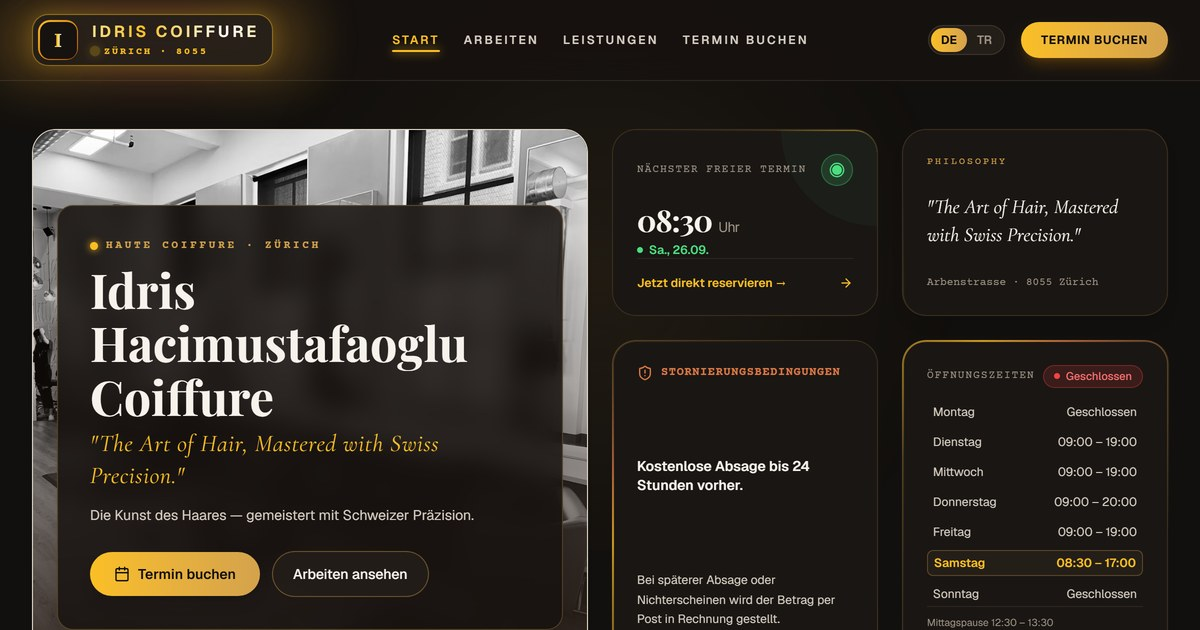
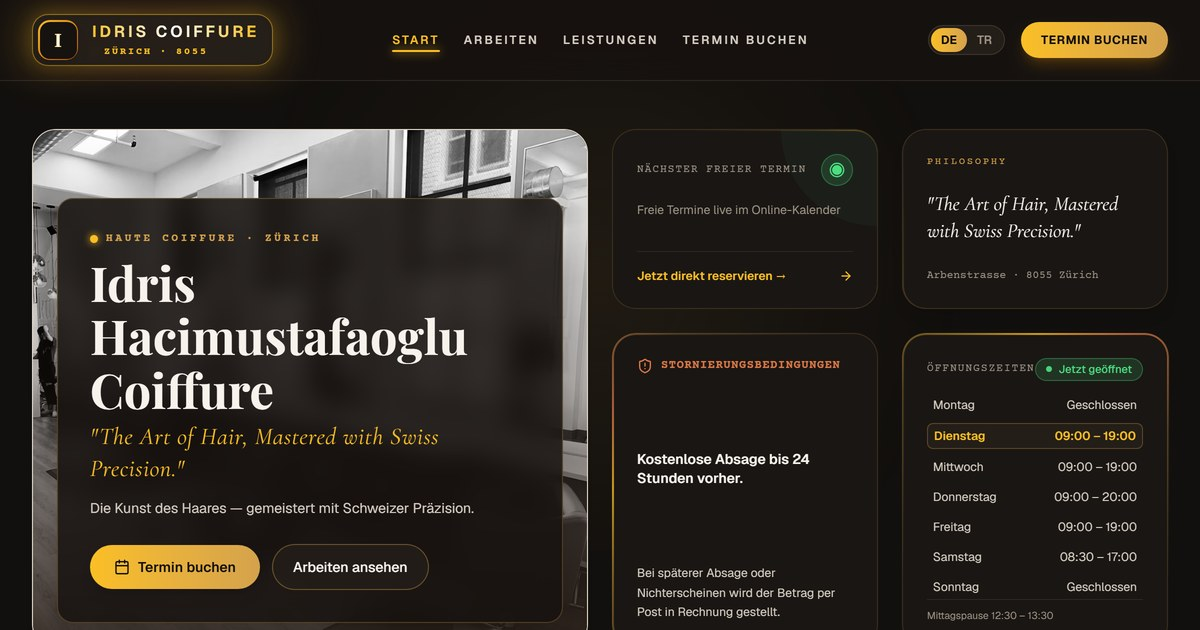
Rename Revair Studio to Idris Coiffure, timeless link preview image
- Salon name in page title, link previews, schema.org data, emails,
  gallery quotes and service names is now Idris Coiffure
- Preview image no longer shows a dated slot or a "closed" badge
- Next-slot card shows a positive hint instead of "no free slot" when
  the backend is unavailable (static Vercel deploy)

diff --git a/server.ts b/server.ts
@@ -60,7 +60,7 @@ const SMTP_HOST = process.env.SMTP_HOST;
 const SMTP_PORT = process.env.SMTP_PORT ? parseInt(process.env.SMTP_PORT, 10) : 587;
 const SMTP_USER = process.env.SMTP_USER;
 const SMTP_PASS = process.env.SMTP_PASS;
-const SMTP_FROM = process.env.SMTP_FROM || `"${SALON_CONFIG.name}" <termin@revair-studio.ch>`;
+const SMTP_FROM = process.env.SMTP_FROM || `"${SALON_CONFIG.name}" <termin@idris-coiffure.ch>`;
 const CALENDAR_ID = process.env.CALENDAR_ID;
 const GOOGLE_SERVICE_ACCOUNT_JSON = process.env.GOOGLE_SERVICE_ACCOUNT_JSON;
 
@@ -247,7 +247,7 @@ function generateIcs(event: CalendarEventItem): string {
   return [
     'BEGIN:VCALENDAR',
     'VERSION:2.0',
-    'PRODID:-//Revair Studio Zürich//Hair Appointments//DE',
+    'PRODID:-//Idris Coiffure Zürich//Hair Appointments//DE',
     'CALSCALE:GREGORIAN',
     'METHOD:REQUEST',
     'BEGIN:VEVENT',
@@ -266,11 +266,11 @@ function generateIcs(event: CalendarEventItem): string {
 
 // Mail Sending Helpers
 async function sendVerificationCodeEmail(email: string, code: string, serviceName: string) {
-  const subject = `Ihr Bestätigungscode für Revair Studio`;
+  const subject = `Ihr Bestätigungscode für Idris Coiffure`;
   // Section 4.3: Kod e-postanın konu satırına yazılmaz, sadece içeriğinde bulunur!
   const textBody = `Guten Tag,
 
-Ihr 6-stelliger Bestätigungscode für Ihren Termin (${serviceName}) bei Revair Studio lautet:
+Ihr 6-stelliger Bestätigungscode für Ihren Termin (${serviceName}) bei Idris Coiffure lautet:
 
 ${code}
 
@@ -289,7 +289,7 @@ ${SALON_CONFIG.contact.phone}`;
   <div style="max-width: 520px; margin: 0 auto; background-color: #fbf8f2; border: 1px solid #e4dacb; border-radius: 16px; padding: 32px; box-shadow: 0 4px 12px rgba(46,35,28,0.05);">
     <div style="text-align: center; margin-bottom: 24px;">
       <div style="display: inline-block; width: 44px; height: 44px; border-radius: 50%; background-color: #2e231c; color: #f1e6c0; font-family: Georgia, serif; font-size: 22px; line-height: 44px; font-weight: bold;">R</div>
-      <h2 style="font-family: 'Source Serif 4', Georgia, serif; color: #2e231c; font-size: 24px; margin: 12px 0 4px;">Revair Studio Zürich</h2>
+      <h2 style="font-family: 'Source Serif 4', Georgia, serif; color: #2e231c; font-size: 24px; margin: 12px 0 4px;">Idris Coiffure Zürich</h2>
       <p style="color: #736c62; font-size: 13px; margin: 0; font-family: 'Courier Prime', Courier, monospace; letter-spacing: 0.05em;">HAIR RITUALS &amp; SPA</p>
     </div>
     <div style="border-top: 1px dashed #d3c6b3; margin: 16px 0 24px;"></div>
@@ -338,7 +338,7 @@ async function sendConfirmationEmail(event: CalendarEventItem) {
     timeZone: SALON_CONFIG.timeZone,
   });
 
-  const subject = `Ihr Termin ist bestätigt — Revair Studio Zürich`;
+  const subject = `Ihr Termin ist bestätigt — Idris Coiffure Zürich`;
   const textBody = `Guten Tag ${event.customerName},
 
 Ihr Termin bei ${SALON_CONFIG.name} ist verbindlich bestätigt:
@@ -424,7 +424,7 @@ async function sendReminderEmail(event: CalendarEventItem) {
     timeZone: SALON_CONFIG.timeZone,
   });
 
-  const subject = `Erinnerung an Ihren Termin morgen — Revair Studio Zürich`;
+  const subject = `Erinnerung an Ihren Termin morgen — Idris Coiffure Zürich`;
   const textBody = `Guten Tag ${event.customerName},
 
 wir freuen uns darauf, Sie morgen um ${timeFormatted} Uhr bei uns im Salon begrüssen zu dürfen!
@@ -435,7 +435,7 @@ Ort: ${SALON_CONFIG.address.street}, ${SALON_CONFIG.address.postalCode} ${SALON_
 Falls etwas dazwischenkommt: ${cancelUrl}
 
 Mit herzlichen Grüssen,
-Ihr Revair Team`;
+Ihr Idris Coiffure Team`;
 
   if (mailTransporter) {
     await mailTransporter.sendMail({
@@ -450,7 +450,7 @@ Ihr Revair Team`;
 }
 
 async function sendCancellationEmail(event: CalendarEventItem) {
-  const subject = `Bestätigung: Termin storniert — Revair Studio Zürich`;
+  const subject = `Bestätigung: Termin storniert — Idris Coiffure Zürich`;
   const textBody = `Guten Tag ${event.customerName},
 
 Ihr Termin für ${event.serviceName} wurde erfolgreich aus unserem Kalender gelöscht.
@@ -1209,7 +1209,7 @@ async function startServer() {
 
   if (!process.env.VERCEL) {
     app.listen(PORT, '0.0.0.0', () => {
-      console.log(`[Revair Studio Server] running on http://0.0.0.0:${PORT}`);
+      console.log(`[Idris Coiffure Server] running on http://0.0.0.0:${PORT}`);
     });
   }
 }

diff --git a/index.html b/index.html
@@ -3,26 +3,26 @@
   <head>
     <meta charset="UTF-8" />
     <meta name="viewport" content="width=device-width, initial-scale=1.0" />
-    <title>Revair Studio Zürich — Coiffure & Hair Spa | Idris Hacimustafaoglu</title>
+    <title>Idris Coiffure Zürich — Haute Coiffure & Hair Spa | Idris Hacimustafaoglu</title>
     <meta name="description" content="Exklusiver Coiffure-Salon in Zürich. Meisterhafte Haarkunst, Balayage, Precision Cuts & persönliche Betreuung. Jetzt online Termin buchen." />
 
     <!-- Open Graph / Facebook / WhatsApp Preview Card -->
     <meta property="og:type" content="website" />
-    <meta property="og:site_name" content="Revair Studio Zürich" />
-    <meta property="og:title" content="Revair Studio Zürich — Haute Coiffure & Hair Spa" />
+    <meta property="og:site_name" content="Idris Coiffure Zürich" />
+    <meta property="og:title" content="Idris Coiffure Zürich — Haute Coiffure & Hair Spa" />
     <meta property="og:description" content="Exklusiver Coiffure-Salon in Zürich (Arbenstrasse 352). Online-Terminbuchung, Arbeiten & Galerie, transparente Leistungen mit Google Calendar Synchronisation." />
     <meta property="og:image" content="https://ido-khaki.vercel.app/og-image.jpg" />
     <meta property="og:image:secure_url" content="https://ido-khaki.vercel.app/og-image.jpg" />
     <meta property="og:image:type" content="image/jpeg" />
     <meta property="og:image:width" content="1200" />
     <meta property="og:image:height" content="630" />
-    <meta property="og:image:alt" content="Revair Studio Zürich Haute Coiffure Salon" />
+    <meta property="og:image:alt" content="Idris Coiffure Zürich Haute Coiffure Salon" />
     <meta property="og:locale" content="de_CH" />
     <meta property="og:locale:alternate" content="tr_TR" />
 
     <!-- Twitter Card -->
     <meta name="twitter:card" content="summary_large_image" />
-    <meta name="twitter:title" content="Revair Studio Zürich — Haute Coiffure & Hair Spa" />
+    <meta name="twitter:title" content="Idris Coiffure Zürich — Haute Coiffure & Hair Spa" />
     <meta name="twitter:description" content="Exklusiver Coiffure-Salon in Zürich. Online-Terminbuchung & Meisterhafte Haarkunst." />
     <meta name="twitter:image" content="https://ido-khaki.vercel.app/og-image.jpg" />
 
@@ -36,7 +36,7 @@
     {
       "@context": "https://schema.org",
       "@type": "HairSalon",
-      "name": "Revair Studio Zürich",
+      "name": "Idris Coiffure Zürich",
       "image": "https://ido-khaki.vercel.app/og-image.jpg",
       "description": "Exklusiver Coiffure-Salon in Zürich. Meisterhafte Haarkunst, Balayage, Precision Cuts & persönliche Betreuung.",
       "address": {

diff --git a/src/i18n/translations.ts b/src/i18n/translations.ts
@@ -16,7 +16,7 @@ export const translations = {
     nextSlot: {
       title: 'Nächster freier Termin',
       loading: 'Wird geladen...',
-      none: 'Kein freier Termin in Sicht',
+      none: 'Freie Termine live im Online-Kalender',
       bookNow: 'Jetzt direkt reservieren →',
     },
     quote1: {
@@ -164,7 +164,7 @@ export const translations = {
     nextSlot: {
       title: 'En Yakın Boş Randevu',
       loading: 'Yükleniyor...',
-      none: 'Yakında boş randevu bulunmuyor',
+      none: 'Boş saatler canlı online takvimde',
       bookNow: 'Hemen Bu Saati Seç →',
     },
     quote1: {

diff --git a/salon.config.ts b/salon.config.ts
@@ -173,8 +173,8 @@ export const SALON_CONFIG = {
     {
       id: "revair-oil-spa",
       category: "pflege",
-      nameDe: "Revair Botanical Oil Spa",
-      nameTr: "Revair Botanik Yağ Terapisi",
+      nameDe: "Idris Botanical Oil Spa",
+      nameTr: "Idris Botanik Yağ Terapisi",
       durationMinutes: 45,
       priceChf: 70,
       descriptionDe: "Wärmendes Kopfhaut-Ritual mit kaltgepresstem Kräuteröl, Akupressur & Dampfkompresse.",

diff --git a/galeri.config.ts b/galeri.config.ts
@@ -168,8 +168,8 @@ export const GALERI_CONFIG = {
       id: "quote-1",
       quoteDe: "Nourish · Restore · Shine",
       quoteTr: "Besle · Onar · Parlat",
-      authorDe: "Revair Philosophie",
-      authorTr: "Revair Felsefesi",
+      authorDe: "Idris Philosophie",
+      authorTr: "Idris Felsefesi",
     },
     {
       id: "quote-2",

diff --git a/README.md b/README.md
@@ -1,4 +1,4 @@
-# Revair Studio Zürich — Coiffure Web & Buchungssystem
+# Idris Coiffure Zürich — Coiffure Web & Buchungssystem
 
 Professionelle Webpräsenz und Online-Terminbuchungssystem für einen Coiffure-Salon in Zürich, Schweiz.
 
@@ -37,7 +37,7 @@ Aus Sicherheitsgründen (Abschnitt 4.1 der Vorgaben) darf **niemals das Haupt-Pa
   1. Google-Konto aufrufen -> *Sicherheit*.
   2. Sicherstellen, dass *2-Faktor-Authentifizierung (2FA)* aktiv ist.
   3. Nach *App-Passwörter* suchen.
-  4. Eine neue App namens `Revair Buchungssystem` anlegen.
+  4. Eine neue App namens `Idris Buchungssystem` anlegen.
   5. Das generierte 16-stellige Passwort kopieren.
 - **Hostpoint / Infomaniak / Swisscom:**
   1. Webmail Control Panel aufrufen -> *E-Mail-Konten -> Einstellungen -> Passwörter / Externe Programme*.
@@ -56,7 +56,7 @@ SMTP_HOST="smtp.gmail.com"
 SMTP_PORT="587"
 SMTP_USER="ihre-email@gmail.com"
 SMTP_PASS="xxxx xxxx xxxx xxxx"
-SMTP_FROM="Revair Studio <termin@revair-studio.ch>"
+SMTP_FROM="Idris Coiffure <termin@idris-coiffure.ch>"
 
 # Optionaler Sicherheitsschlüssel für Token
 TOKEN_SECRET=""
